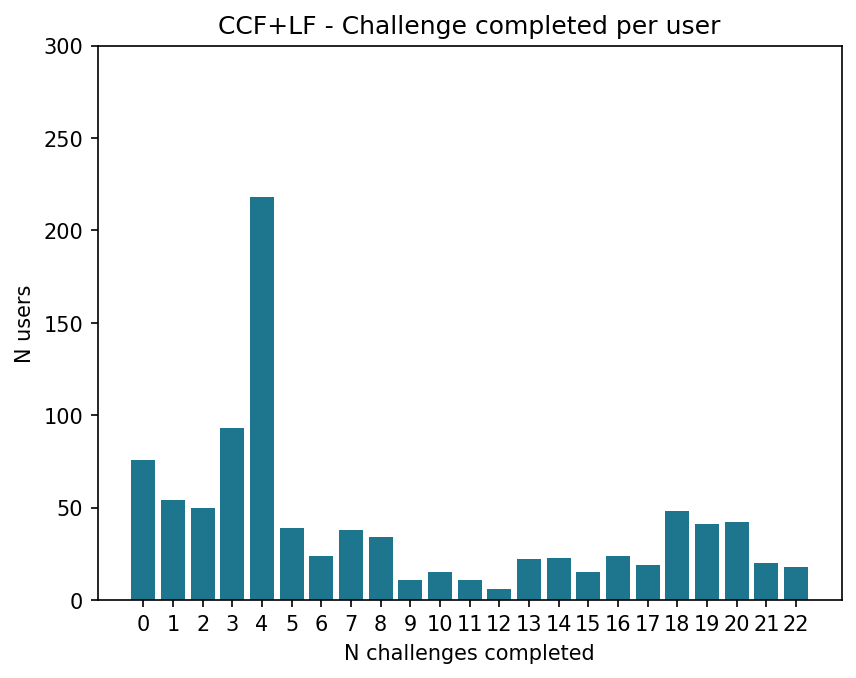
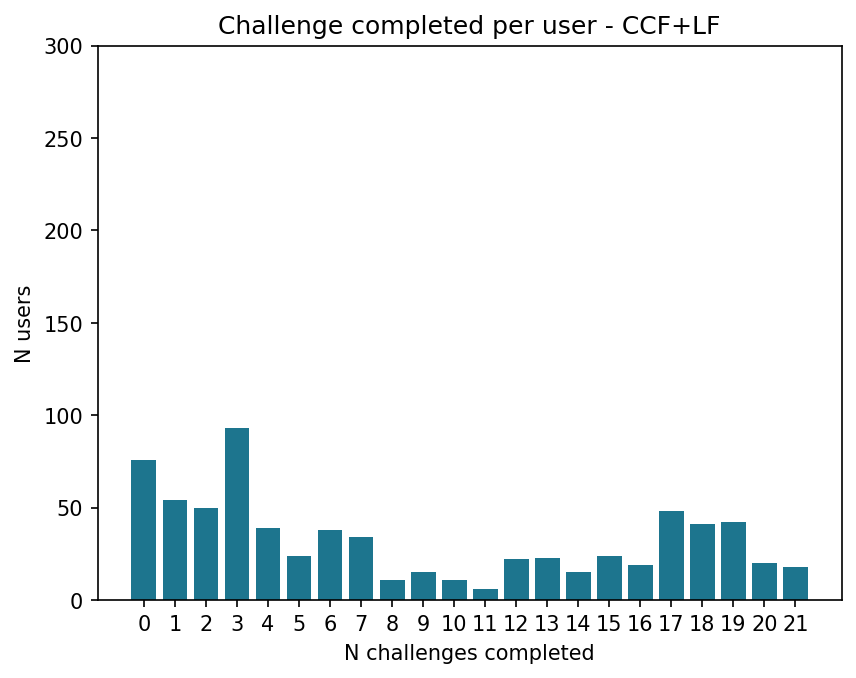
Add fixes

Changed region(s): [[0.1519, 0.2788, 0.9416, 0.9292], [0.2734, 0.0, 0.8505, 0.0619]]

diff --git a/split-tests.py b/split-tests.py
@@ -1,5 +1,6 @@
 import statistics
 
+import scipy.stats
 from matplotlib import pyplot
 import numpy as np
 from tools import removeItem, round2dec, HEADER,BA,AB,BB,AA, get_stats, barPlot, combine, fromHistToData, boxPlots, hist, toInt, getDropOff
@@ -8,6 +9,35 @@ from scipy import stats
 import csv
 from statistics import mean, stdev
 import math
+from numpy.random import randn
+
+
+
+def printMannwhitneyu(experiment, control, set):
+  x = set[experiment]
+  y = set[control]
+  experimentMean = mean(fromHistToData(removeItem(x, 4)))
+  controlMean = mean(fromHistToData(removeItem(y, 4)))
+
+  result = stats.mannwhitneyu(fromHistToData(x), fromHistToData(y), alternative='two-sided')
+
+  if(result.pvalue < 0.05):
+    if(experimentMean > controlMean):
+      print(experiment, '>', control, '&', result.pvalue, '&', 'Confirmed', '&', experiment, '\\\\ \\hline')
+      # print(experiment, 'is significantly larger than', control, 'p', result.pvalue)
+    else:
+      print(control, '>', experiment, '&', result.pvalue, '&', 'Confirmed', '&', control, '\\\\ \\hline')
+      # print(control, 'is significantly larger than', experiment, 'p', result.pvalue)
+  else:
+    print(experiment, '>', control, '&', result.pvalue, '&', 'Rejected', '&', '-', '\\\\ \\hline')
+
+    pass
+    # print('No significant difference found between ', experiment, 'and', control, 'p-value: ', result.pvalue)
+
+
+
+
+
 
 sets = {
   HEADER: [],
@@ -25,44 +55,126 @@ with open('/Users/macbook/PycharmProjects/funnel-plotting/full-funnel.csv', newl
 
 
 
-def printMannwhitneyu(experiment, control, set):
-  x = set[experiment]
-  y = set[control]
-  result = stats.mannwhitneyu(fromHistToData(x), fromHistToData(y), alternative='two-sided')
-  if(result.pvalue < 0.05):
-    if(mean(x) > mean(y)):
-      print(experiment, 'is significantly larger than', control, 'p', result.pvalue)
-    else:
-      print(control, 'is significantly larger than', experiment, 'p', result.pvalue)
-  else:
-    pass
-    # print('No significant difference found between ', experiment, 'and', control, 'p-value: ', result.pvalue)
-
 
 histSets = {}
 for key in sets.keys():
   dropOffs = getDropOff(sets[key])
   histSets[key] = dropOffs
 
-#
-# printMannwhitneyu(BB, AA, histSets)
-# printMannwhitneyu(BA, AB, histSets)
-#
-# printMannwhitneyu(AB, AA, histSets)
-# printMannwhitneyu(AB, BB, histSets)
-#
-# printMannwhitneyu(BA, AA, histSets)
-# printMannwhitneyu(BA, BB, histSets)
 
-boxPlots([histSets[AA], histSets[BB], histSets[BA], histSets[AB]], [AA, BB, BA, AB])
+ing = {
+  "CHAINED": combine(histSets[BB], histSets[BA]),
+  "NOT_CHAINED": combine(histSets[AB], histSets[AA]),
+  "LOCKED": combine(histSets[BB], histSets[AB]),
+  "NOT_LOCKED": combine(histSets[BA], histSets[AA])
+}
+
+# printMannwhitneyu("CHAINED", "NOT_CHAINED", ing)
+# printMannwhitneyu("LOCKED", "NOT_LOCKED", ing)
+
+
+
+
+def printTests ():
+  printMannwhitneyu(BB, AA, histSets)
+  printMannwhitneyu(BA, AB, histSets)
+
+  printMannwhitneyu(AB, AA, histSets)
+  printMannwhitneyu(AB, BB, histSets)
+
+  printMannwhitneyu(BA, AA, histSets)
+  printMannwhitneyu(BA, BB, histSets)
+
+printTests()
+
+# boxPlots([histSets[AA], histSets[BB], histSets[BA], histSets[AB]], [AA, BB, BA, AB])
+def printBarPlots():
+
+  barPlot(histSets[AB], AB)
+  barPlot(histSets[AA], AA)
+  barPlot(histSets[BB], BB)
+  barPlot(histSets[BA], BA)
+
+def printBarPlotsNoFriction():
+  barPlot(removeItem(histSets[AB], 4), AB)
+  barPlot(removeItem(histSets[AA], 4), AA)
+  barPlot(removeItem(histSets[BB], 4), BB)
+  barPlot(removeItem(histSets[BA], 4), BA)
+
+
+
+
+print(stats.levene(
+  fromHistToData(histSets[AB]),
+  fromHistToData(histSets[AA]),
+  fromHistToData(histSets[BB]),
+  fromHistToData(histSets[BA])
+))
+
+
+
+maxsum = 2000
+
+title = 'Drop-off for prototype - '
+
+
+
+totalChallengeForProto = {
+  AA: 919,
+  AB: 950,
+  BB: 941,
+  BA: 986,
+}
+
+def plotCumSum (data, proto):
+  cum = np.cumsum(data)
+  max = totalChallengeForProto[proto]
+
+  barPlot(max - cum, proto, 986, title)
+
+#
 # barPlot(histSets[AB], AB)
 # barPlot(histSets[AA], AA)
 # barPlot(histSets[BB], BB)
 # barPlot(histSets[BA], BA)
-# barPlot(histSets[AB], AB)
-# barPlot(histSets[AB], AB)
-# barPlot(histSets[AB], AB)
 
+
+def calcCompletionRate():
+
+  challengesCompletions = []
+  totalUsers = 3796
+
+  with open('/Users/macbook/PycharmProjects/funnel-plotting/chalcompletions.csv', newline='') as csvfile:
+    spamreader = csv.reader(csvfile, delimiter=';')
+    for row in spamreader:
+      challengesCompletions.append(row)
+
+
+  for challenge in challengesCompletions:
+    cr = (int(challenge[1]) / totalUsers)
+    challenge.append(cr)
+    print(challenge[0], '&', challenge[1], '&', str(round2dec(cr * 100, 1)) + '\%', '&', '-' '\\\\ \\hline')
+
+  crOnly = []
+  nOnly = []
+
+  for challenge in challengesCompletions:
+    crOnly.append(challenge[2])
+    nOnly.append(int(challenge[1]))
+
+  cr = np.average(crOnly)
+
+  print('\\textbf{Average}', '&', '&', str(round2dec(cr * 100, 1)) + '\%', '&', '-')
+
+  nTotal = np.sum(nOnly)
+  print('nTotal:', nTotal)
+
+
+def normalDist(x):
+  shapiro_test = stats.shapiro(x)
+  print(shapiro_test.pvalue)
+
+data = 5 * randn(100) + 50
 
 def stats(sets, which):
   data = fromHistToData(sets)
@@ -73,73 +185,11 @@ def stats(sets, which):
   nchal = str(sum(data))
   print(which, '&', n, '&', m, '(n:', nchal + ')', '&', std, '&', median, '\\\\ \hline')
 
-stats(histSets[AB], AB)
-stats(histSets[AA], AA)
-stats(histSets[BB], BB)
-stats(histSets[BA], BA)
+# stats(histSets[AB], AB)
+# stats(histSets[AA], AA)
+# stats(histSets[BB], BB)
+# stats(histSets[BA], BA)
 
 # hist(fromHistToData(abCounts))
 # print(statistics.stdev(fromHistToData(aaCounts)))
-
-
-
-def createDistributions ():
-  # none none
-  aaCounts = [64, 50, 71, 63, 75, 56, 36, 51, 61, 38, 30, 42, 40, 24, 35, 19, 27, 22, 13, 20, 17, 13, 9]
-
-  # chained none
-  abCounts = [86, 84, 53, 92, 240, 50, 19, 27, 35, 17, 16, 4, 6, 8, 19, 20, 13, 15, 26, 34, 16, 23, 9]
-
-  # none locked
-  baCounts = [72, 63, 56, 71, 127, 51, 40, 71, 37, 34, 18, 25, 17, 33, 31, 18, 29, 36, 29, 27, 25, 16, 12]
-
-  # chained locked
-  bbCounts = [74, 54, 47, 88, 208, 40, 23, 37, 34, 9, 15, 12, 5, 22, 24, 15, 20, 18, 47, 40, 40, 20, 18]
-
-  aa = fromHistToData(aaCounts)
-  print('aa')
-  get_stats(aa)
-  barPlot(aaCounts)
-
-  ab = fromHistToData(abCounts)
-  print('Chained: a; Unlock: b')
-  get_stats(ab)
-  barPlot(abCounts)
-
-  ba = fromHistToData(baCounts)
-  print('Chained: b; Unlock: a')
-  get_stats(ba)
-  barPlot(baCounts)
-
-  bb = fromHistToData(bbCounts)
-  print('bb')
-  get_stats(bb)
-  barPlot(bbCounts)
-
-
-
-
-  print('Chained: a')
-  aCounts = combine(aaCounts, abCounts)
-  a = fromHistToData(aCounts)
-  get_stats(a)
-  barPlot(aCounts)
-
-  print('Chained: b')
-  bCounts = combine(baCounts, bbCounts)
-  b = fromHistToData(bCounts)
-  get_stats(b)
-  barPlot(bCounts)
-
-  print('aa vs ba (none, none vs chained no lock)')
-  aCounts = combine(aaCounts, baCounts)
-  a = fromHistToData(aCounts)
-  get_stats(a)
-  barPlot(aCounts)
-
-  print('Unlocked: b')
-  bCounts = combine(abCounts, bbCounts)
-  b = fromHistToData(bCounts)
-  get_stats(b)
-  barPlot(bCounts)
 

diff --git a/tools.py b/tools.py
@@ -10,6 +10,7 @@ AB = 'NONE+LF'
 BB = 'CCF+LF'
 AA = 'NONE+NONE'
 
+
 colors = {
   HEADER: 'black',
   BA: '#27AE60',
@@ -89,7 +90,7 @@ def get_stats(counts):
   print('num users: ')
   print(len(counts))
 
-def barPlot(counts, protoType):
+def barPlot(counts, protoType, maxValue = 300, title ="Challenge completed per user - "):
   x = list(range(0, len(counts)))
 
   #x_pos = [i for i, _ in enumerate(x)]
@@ -97,10 +98,10 @@ def barPlot(counts, protoType):
   plt.bar(x, counts, color=colors[protoType])
   plt.xlabel("N challenges completed")
   plt.ylabel("N users")
-  plt.title(protoType + " - Challenge completed per user")
+  plt.title(title + protoType)
 
   plt.xticks(x, x)
-  plt.ylim(0, 300)
+  plt.ylim(0, maxValue)
 
   plt.savefig('/Users/macbook/PycharmProjects/funnel-plotting/barPlots' + protoType + '.png', bbox_inches='tight', dpi=150)
   plt.clf()

diff --git a/main.py b/main.py
@@ -103,6 +103,9 @@ def baselineNumbers():
     #     textinfo = "value+percent initial"))
     #
 
+
+
+
 # baselineNumbers()
 # newNumbers()
 
